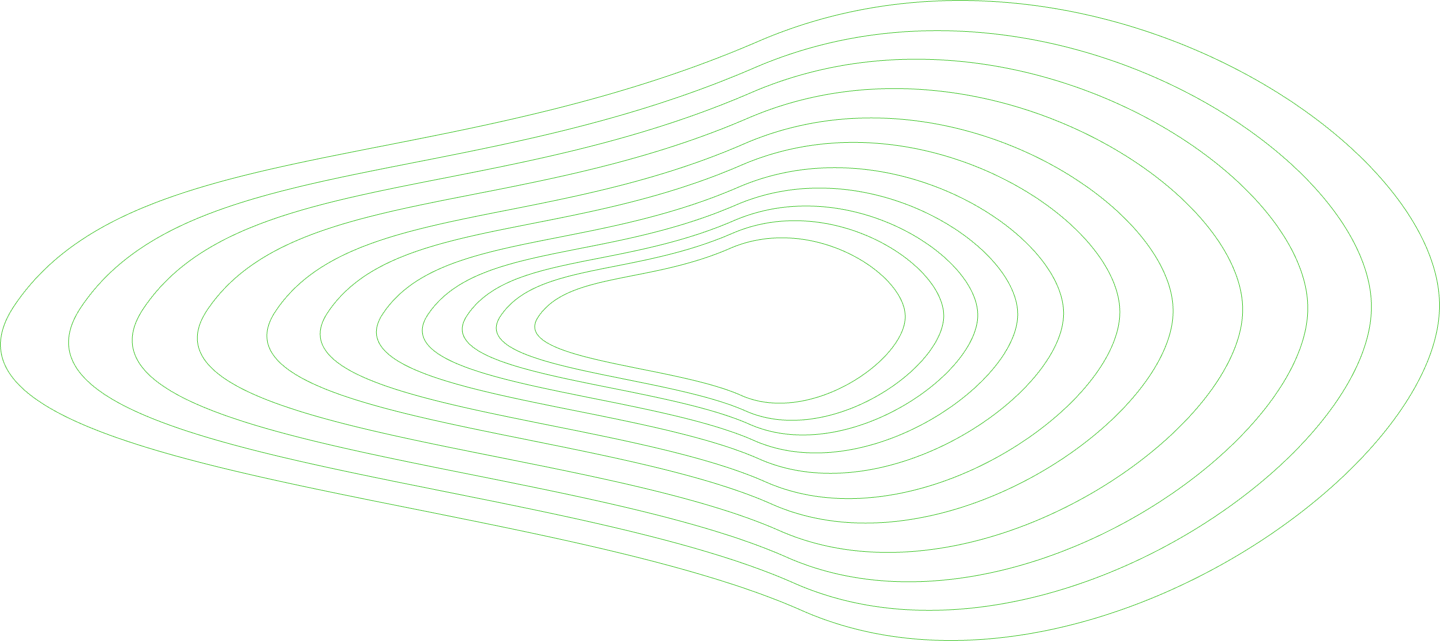
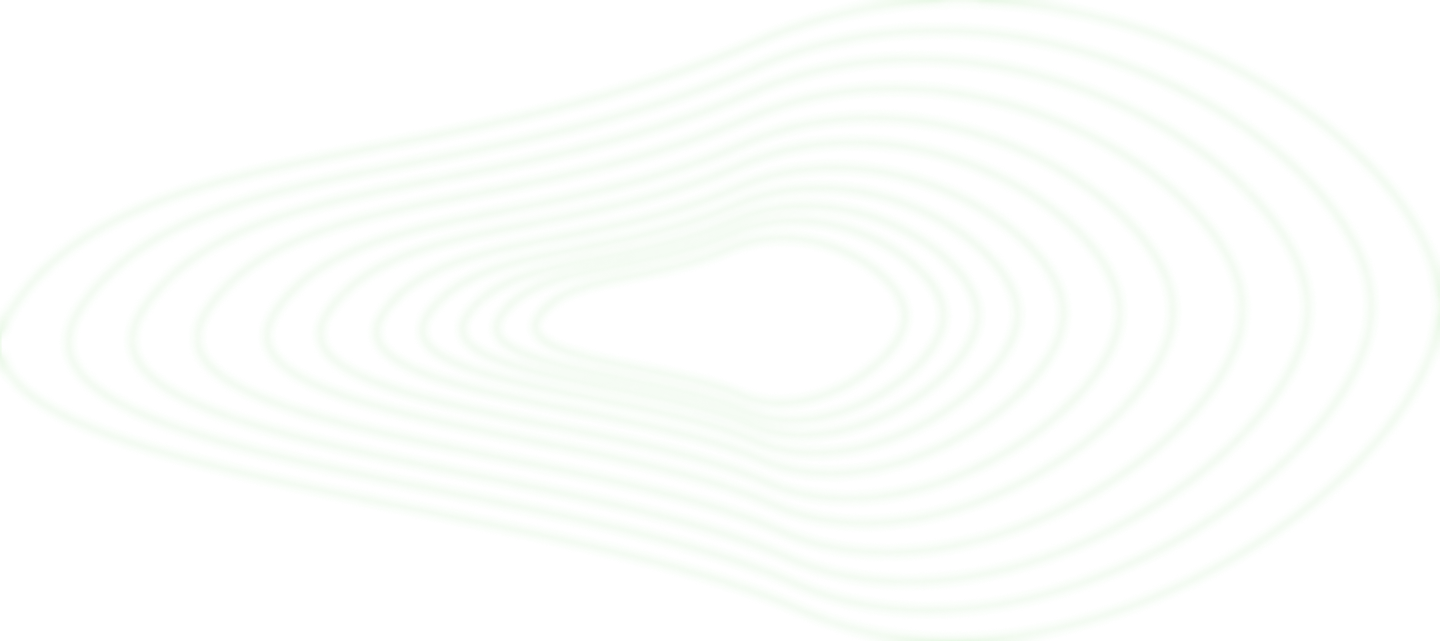
add coinbase wallet button and change theme

diff --git a/packages/nextjs/components/Header.tsx b/packages/nextjs/components/Header.tsx
@@ -4,6 +4,8 @@ import React, { useCallback, useRef, useState } from "react";
 import Image from "next/image";
 import Link from "next/link";
 import { usePathname } from "next/navigation";
+import { BlueCreateWalletButton } from "./scaffold-eth/BlueCreateWalletButton";
+import toast from "react-hot-toast";
 import { Bars3Icon, BugAntIcon } from "@heroicons/react/24/outline";
 import { FaucetButton, RainbowKitCustomConnectButton } from "~~/components/scaffold-eth";
 import { useOutsideClick } from "~~/hooks/scaffold-eth";
@@ -46,8 +48,8 @@ export const HeaderMenuLinks = () => {
               href={href}
               passHref
               className={`${
-                isActive ? "bg-secondary shadow-md " : ""
-              } hover:bg-secondary hover:shadow-md focus:!bg-secondary active:!text-neutral py-1.5 px-3 text-sm rounded-full gap-2 grid grid-flow-col `}
+                isActive ? "border-b-4 border-primary" : "border-b-4 border-transparent"
+              } hover:border-primary focus:border-primary border-2 active:border-neutral py-1.5 px-3 text-sm rounded-xl gap-2 grid grid-flow-col`}
             >
               {icon}
               <span>{label}</span>
@@ -71,7 +73,7 @@ export const Header = () => {
   );
 
   return (
-    <div className="sticky lg:static top-0 navbar bg-transparent min-h-0 flex-shrink-0 justify-between z-20 shadow-md shadow-secondary px-0 sm:px-2">
+    <div className="sticky top-0 navbar bg-base-200 min-h-0 flex-shrink-0 justify-between z-20 shadow-md shadow-secondary px-0 sm:px-2 bg-overlay backdrop-blur">
       <div className="navbar-start w-auto lg:w-1/2">
         <div className="lg:hidden dropdown" ref={burgerMenuRef}>
           <label
@@ -81,7 +83,7 @@ export const Header = () => {
               setIsDrawerOpen(prevIsOpenState => !prevIsOpenState);
             }}
           >
-            <Bars3Icon className="h-1/2" />
+            <Bars3Icon className="h-8" />
           </label>
           {isDrawerOpen && (
             <ul
@@ -96,16 +98,22 @@ export const Header = () => {
           )}
         </div>
         <Link href="/" passHref className="hidden lg:flex items-center gap-2 mt-2 ml-36 mr-6 shrink-0">
-          <div className="flex relative w-40 h-20">
-            <Image alt="CoE logo" className="cursor-pointer" width={180} height={120} src="/logo.png" />
+          <div className="flex relative w-40 h-16">
+            <Image alt="CoE logo" className="cursor-pointer" width={110} height={120} src="/logo.png" />
           </div>
         </Link>
       </div>
-      <div className="navbar-end flex-grow mr-36">
-        <ul className="hidden lg:flex lg:flex-nowrap menu menu-horizontal px-1 gap-2">
+      <div className="navbar-end flex-grow mr-2 md:mr-36">
+        <ul className="hidden lg:flex lg:flex-nowrap menu menu-horizontal px-1 gap-2 md:mr-24">
           <HeaderMenuLinks />
         </ul>
-        <RainbowKitCustomConnectButton />
+        <div className="flex flex-col items-center md:flex-row gap-1 md:gap-4">
+          <BlueCreateWalletButton
+            handleSuccess={() => toast.success("Wallet created")}
+            handleError={() => console.log("Exited wallet creation")}
+          ></BlueCreateWalletButton>
+          <RainbowKitCustomConnectButton />
+        </div>
       </div>
     </div>
   );

diff --git a/packages/nextjs/components/scaffold-eth/BlueCreateWalletButton.tsx b/packages/nextjs/components/scaffold-eth/BlueCreateWalletButton.tsx
@@ -1,0 +1,59 @@
+import React, { useCallback } from "react";
+import { CSSProperties } from "react";
+import { CoinbaseWalletLogo } from "./CoinbaseWalletLogo";
+import { CoinbaseWalletSDK } from "@coinbase/wallet-sdk";
+
+const buttonStyles: CSSProperties = {
+  background: "transparent",
+  boxSizing: "border-box",
+  display: "flex",
+  alignItems: "center",
+  justifyContent: "space-between",
+  width: 150,
+  height: 40,
+  fontFamily: "Arial, sans-serif",
+  fontWeight: "bold",
+  fontSize: 14,
+  backgroundColor: "#0052FF",
+  paddingLeft: 9,
+  paddingRight: 11,
+  borderRadius: 10,
+};
+
+interface BlueCreateWalletButtonProps {
+  handleSuccess: (address: string) => void;
+  handleError: (error: Error) => void;
+}
+
+const sdk = new CoinbaseWalletSDK({
+  appName: "Chain of Events",
+  appLogoUrl: "https://example.com/logo.png",
+  appChainIds: [84532],
+});
+
+const provider = sdk.makeWeb3Provider();
+
+export function BlueCreateWalletButton({ handleSuccess, handleError }: BlueCreateWalletButtonProps) {
+  const createWallet = useCallback(async () => {
+    try {
+      const addresses: string[] = (await provider.request({
+        method: "eth_requestAccounts",
+      })) as string[];
+      const address = addresses[0];
+      handleSuccess(address);
+    } catch (error: any) {
+      handleError(error);
+    }
+  }, [handleSuccess, handleError]);
+
+  return (
+    <button
+      style={buttonStyles}
+      className="text-white duration-300 hover:border-2 border-secondary ease-in-out"
+      onClick={createWallet}
+    >
+      <CoinbaseWalletLogo />
+      Create Wallet
+    </button>
+  );
+}

diff --git a/packages/nextjs/components/scaffold-eth/RainbowKitCustomConnectButton/WrongNetworkDropdown.tsx b/packages/nextjs/components/scaffold-eth/RainbowKitCustomConnectButton/WrongNetworkDropdown.tsx
@@ -7,7 +7,26 @@ export const WrongNetworkDropdown = () => {
 
   return (
     <div className="dropdown dropdown-end mr-2">
-      <label tabIndex={0} className="btn btn-accent btn-sm dropdown-toggle gap-1 font-poppins">
+      <label
+        tabIndex={0}
+        style={{
+          background: "transparent",
+          boxSizing: "border-box",
+          display: "flex",
+          alignItems: "center",
+          justifyContent: "space-between",
+          width: "150px",
+          height: "40px",
+          fontFamily: "Arial, sans-serif",
+          fontWeight: "bold",
+          fontSize: "14px",
+          backgroundColor: "#AA3A4B",
+          paddingLeft: "11px",
+          paddingRight: "11px",
+          borderRadius: "10px",
+          color: "#FFFFFF",
+        }}
+      >
         <span>Wrong network</span>
         <ChevronDownIcon className="h-6 w-4 ml-2 sm:ml-0" />
       </label>
@@ -17,11 +36,7 @@ export const WrongNetworkDropdown = () => {
       >
         <NetworkOptions />
         <li>
-          <button
-            className="menu-item text-error btn-sm !rounded-xl flex gap-3 py-3"
-            type="button"
-            onClick={() => disconnect()}
-          >
+          <button className="text-error btn-sm !rounded-xl flex gap-3 py-3" type="button" onClick={() => disconnect()}>
             <ArrowLeftOnRectangleIcon className="h-6 w-4 ml-2 sm:ml-0" />
             <span>Disconnect</span>
           </button>

diff --git a/packages/nextjs/components/scaffold-eth/RainbowKitCustomConnectButton/AddressInfoDropdown.tsx b/packages/nextjs/components/scaffold-eth/RainbowKitCustomConnectButton/AddressInfoDropdown.tsx
@@ -48,12 +48,31 @@ export const AddressInfoDropdown = ({
   return (
     <>
       <details ref={dropdownRef} className="dropdown dropdown-end leading-3">
-        <summary tabIndex={0} className="btn btn-secondary btn-sm pl-0 pr-2 shadow-md dropdown-toggle gap-0 !h-auto">
+        <summary
+          tabIndex={0}
+          style={{
+            background: "transparent",
+            boxSizing: "border-box",
+            display: "flex",
+            alignItems: "center",
+            justifyContent: "space-between",
+            width: "175px",
+            height: "40px",
+            fontFamily: "Arial, sans-serif",
+            fontWeight: "bold",
+            fontSize: "14px",
+            backgroundColor: "#C9D5FF",
+            paddingLeft: "11px",
+            paddingRight: "11px",
+            borderRadius: "10px",
+            color: "#1A61DB",
+          }}
+        >
           <BlockieAvatar address={checkSumAddress} size={30} ensImage={ensAvatar} />
           <span className="ml-2 mr-1">
             {isENS(displayName) ? displayName : checkSumAddress?.slice(0, 6) + "..." + checkSumAddress?.slice(-4)}
           </span>
-          <ChevronDownIcon className="h-6 w-4 ml-2 sm:ml-0" />
+          <ChevronDownIcon className="text-black h-6 w-4 ml-2 sm:ml-0" />
         </summary>
         <ul
           tabIndex={0}

diff --git a/packages/nextjs/tailwind.config.js b/packages/nextjs/tailwind.config.js
@@ -9,18 +9,18 @@ module.exports = {
     themes: [
       {
         dark: {
-          primary: "#701A7E",
-          "primary-content": "#F9FBFF",
-          secondary: "#1E1A38",
-          "secondary-content": "#F9FBFF",
+          primary: "#1A61DB",
+          "primary-content": "#ffffff",
+          secondary: "##f1f4fe",
+          "secondary-content": "#ffffff",
           accent: "#AA3A4B",
-          "accent-content": "#F9FBFF",
-          neutral: "#F9FBFF",
+          "accent-content": "#737373",
+          neutral: "#737373",
           "neutral-content": "#385183",
           "base-100": "#4E35F6",
-          "base-200": "#1E1A38",
+          "base-200": "#f1f1f1",
           "base-300": "#5295B5",
-          "base-content": "#F9FBFF",
+          "base-content": "#3b3b3b",
           info: "#385183",
           success: "#34EEB6",
           warning: "#FFCF72",
@@ -63,6 +63,10 @@ module.exports = {
       animation: {
         "pulse-fast": "pulse 1s cubic-bezier(0.4, 0, 0.6, 1) infinite",
       },
+      backgroundColor: theme => ({
+        ...theme('colors'),
+        'overlay': 'rgba(255, 255, 255, 0.8)',
+      }),
     },
   },
 };

diff --git a/packages/nextjs/components/scaffold-eth/CoinbaseWalletLogo.tsx b/packages/nextjs/components/scaffold-eth/CoinbaseWalletLogo.tsx
@@ -1,0 +1,18 @@
+import React from "react";
+
+const defaultContainerStyles = {
+  paddingTop: 2,
+};
+
+export function CoinbaseWalletLogo({ size = 26, containerStyles = defaultContainerStyles }) {
+  return (
+    <div style={containerStyles}>
+      <svg width={size} height={size} viewBox="0 0 32 32" fill="none" xmlns="http://www.w3.org/2000/svg">
+        <path
+          d="M2.66675 15.9998C2.66675 23.3628 8.63712 29.3332 16.0001 29.3332C23.363 29.3332 29.3334 23.3628 29.3334 15.9998C29.3334 8.63687 23.363 2.6665 16.0001 2.6665C8.63712 2.6665 2.66675 8.63687 2.66675 15.9998ZM12.5927 11.7035H19.4075C19.9001 11.7035 20.2964 12.0998 20.2964 12.5924V19.4072C20.2964 19.8998 19.9001 20.2961 19.4075 20.2961H12.5927C12.1001 20.2961 11.7038 19.8998 11.7038 19.4072V12.5924C11.7038 12.0998 12.1001 11.7035 12.5927 11.7035Z"
+          fill="white"
+        />
+      </svg>
+    </div>
+  );
+}

diff --git a/packages/nextjs/components/ScaffoldEthAppWithProviders.tsx b/packages/nextjs/components/ScaffoldEthAppWithProviders.tsx
@@ -52,9 +52,7 @@ export const ScaffoldEthAppWithProviders = ({ children }: { children: React.Reac
     <WagmiProvider config={wagmiConfig}>
       <QueryClientProvider client={queryClient}>
         <ProgressBar />
-        <RainbowKitProvider
-          avatar={BlockieAvatar}
-        >
+        <RainbowKitProvider avatar={BlockieAvatar}>
           <ScaffoldEthApp>{children}</ScaffoldEthApp>
         </RainbowKitProvider>
       </QueryClientProvider>

diff --git a/packages/nextjs/styles/globals.css b/packages/nextjs/styles/globals.css
@@ -35,3 +35,7 @@ p {
 .btn-gradient-primary {
   background: linear-gradient(10deg, #6262D9 0%, #9D62D9 100%);
 }
+
+.hero-content.my-custom-class {
+  justify-content: space-around
+}
